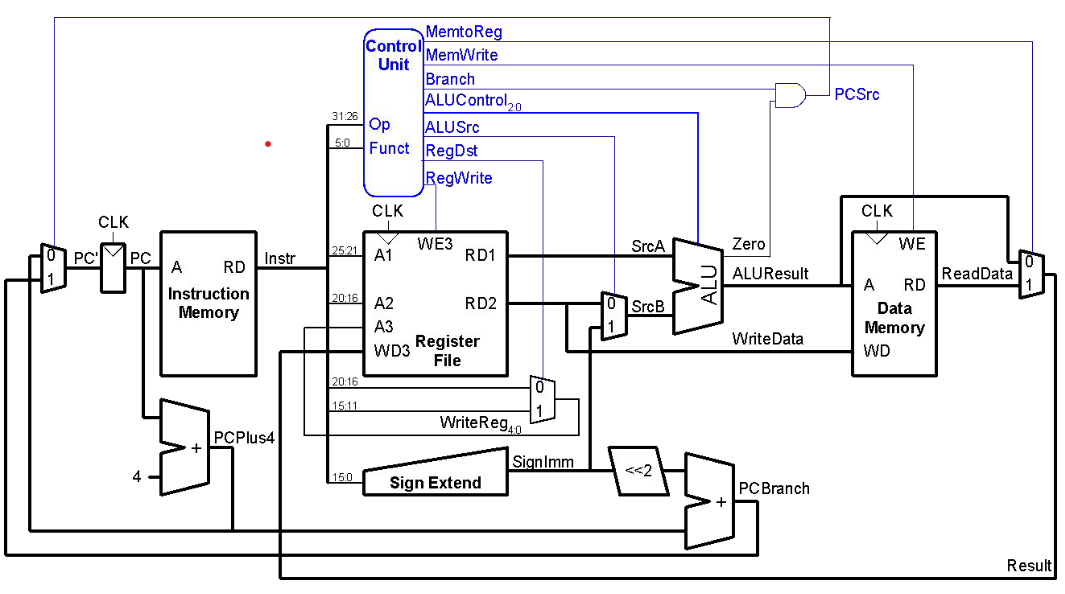
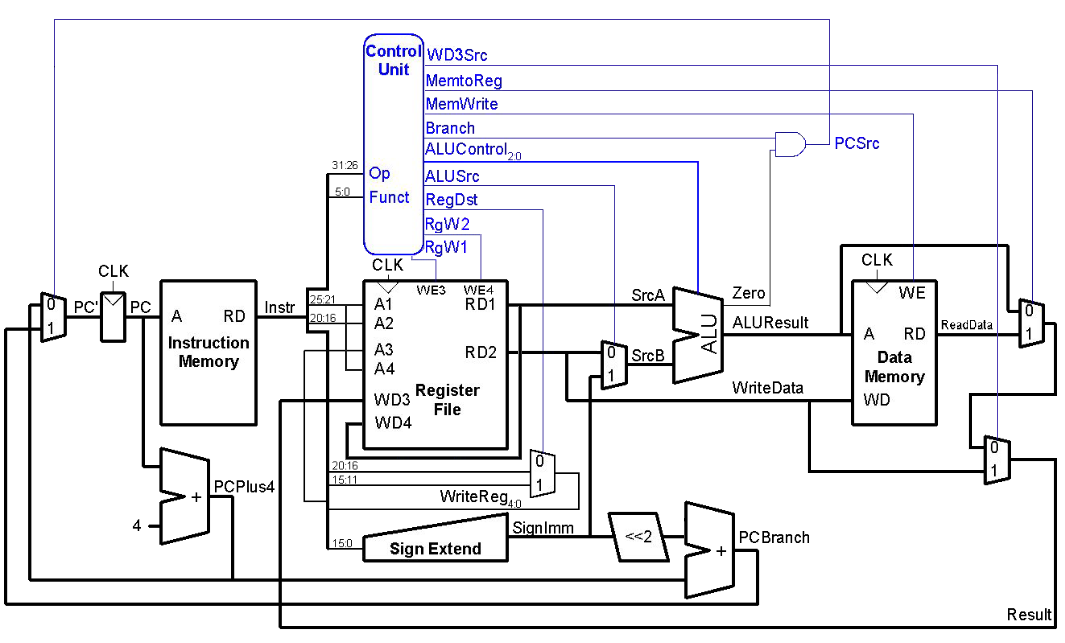
super

diff --git a/Rachunek Prawdopodobnieństwa i Statystyka/Lista 8/zad9.py b/Rachunek Prawdopodobnieństwa i Statystyka/Lista 8/zad9.py
@@ -1,0 +1,5 @@
+with open('z89.csv', 'r') as f:
+    data = [float(line.strip()) for line in f.readlines()]
+
+avg = sum(data) / len(data)
+print((sum((avg - x) ** 2 for x in data) / len(data)) ** 0.5)

diff --git a/Rachunek Prawdopodobnieństwa i Statystyka/Lista 8/zad8.py b/Rachunek Prawdopodobnieństwa i Statystyka/Lista 8/zad8.py
@@ -1,0 +1,4 @@
+with open('z89.csv', 'r') as f:
+    data = [float(line.strip()) for line in f.readlines()]
+
+print(sum(data) / len(data))

diff --git a/Systemy Komputerowe/lista6/zad9.md b/Systemy Komputerowe/lista6/zad9.md
@@ -1,14 +1,37 @@
-Jeżeli chcielibyśmy wykonać instrukcję $swap x y$ w jednym cyklu procesora to musielibyśmy wykonać następujące działania:
+*rysunek został zmodyfikowany ręcznie w programie graficznym, nie jest to rysunek ze slajdów*
+
+#### Intuicja
+
+Jeżeli chcielibyśmy wykonać instrukcję $swap \; x \; y$ w jednym cyklu procesora to musielibyśmy wykonać następujące działania:
 
 - odczytanie wartości z rejestru $x$
 - odczytanie wartości z rejestru $y$
 - zapisanie wartości z rejestru $x$ do $y$
 - zapisanie wartości z rejestru $y$ do $x$
 
+#### Problemy
+
 W dotychczasowo omawianym modelu procesora **plik rejestrów** umożliwia odczytanie dwóch wartości w jednym cyklu, natomiast możemy wykonać zapis tylko do jednego rejestru.
 
 Stąd modyfikacja jaką należałoby wykonać obejmowałaby **plik rejestrów** i dodanie wejść A4, WD4, WE4.
 
-Dodatkowo nie musielibyśmy wykonywać żadnych operacji w ALU ani w pamięci danych, więc można połączyć wyjścia RD1 i RD2 odpowiednio z wejściami WD3, WD4. Na wejścia WE3 oraz WE4 trzeba skierować w **ControlUnit** wartość 1.
+#### Modyfikacje procesora
 
-Całość powinna zachowywać kompatybilność wsteczną z innymi instrukcjami, więc dla wyjść RD1 i RD2 należałoby podłączyć stosowne multipleksery.
+- dodanie wejścia **A4**
+- dodanie wejście **WD4** oraz **WE4**
+- połączenie **A1** bezpośrednio z **A4** (**A4** jest używane tylko do ***SWAPA***)
+- połączenie **RD1** bezpośrednio z **WD4** (**WD4** jest używane tylko do ***SWAPA***)
+- dodanie multipleksera z wejścia z **RD2** oraz z wyjściem z wynikiem obliczeń dla **RD3**, który będzie wybierał wejście do **RD3** (dzięki temu zachowujemy kompatybilność z pozostałymi instrukcjami)
+
+#### Ustawienia Control Unit
+
+- ustawiamy **RegDst** na $0$, wtedy do **A3** trafi wartość z **A2**
+- ustawiamy **WD3Src** na $1$, wetdy do **WD3** trafi wartość z **RD2**
+- ustawiamy **WE4** na $1$, wtedy wartość z **WD4** zostanie zapisana do rejestru o adresie **A4**
+
+#### Koszt
+
+- $3$ dodatkowe wejśćia w **pliku rejestrów**
+- $2$ dodatkowe wyjścia z **ControlUnit**
+- $1$ dodatkowy multiplekser
+- trochę dodatkowych ścieżek (mogą powodować problemy z rozmieszczeniem elementów i ostatecznie zwiększyć rozmiar procesora)

diff --git a/Systemy Komputerowe/lista8/zad6.md b/Systemy Komputerowe/lista8/zad6.md
@@ -1,0 +1,40 @@
+#### Intuicja
+
+Algorytm Tomasulo działa podobnie do reorder buffer, ale zachowuje osobne buforowanie dla każdej jednostki ALU.
+
+#### Register Renaming
+
+Register Renaming rozwiązuje hazardy danych poprzez przypisywanie rejestrom Tagów, w celu ich dodatkowego rozróżnienia względem kolejności występowania w programie.
+
+#### Struktury danych
+
+Algorytm ma główną rejestr, który opisuje adresy stacji rezerwacyjnych. Stacje rezerwacyjne są osobne dla każdego ALU i pamiętają kolejne instrukcje, które ALU ma wykonać
+
+Stacje rezerwacyjne:
+
+- **Value**: wartość
+- **Valid**: mówi czy dane są aktualne
+- **Tag**: mówi skąd wziąć wartość
+
+Rejestr główny:
+
+- **Value**: wartość
+- **Valid**: mówi, czy wartość jest aktualna
+- **Tag**: jeżeli Valid jest równy 0 to mówi, która operacja liczy wartość
+
+#### Algorytm
+
+1. odczytanie instrukcji
+2. nadanie wolnego pierwszego wolnego miejsca w rejestrze głównym (przypisanie do odpowiedniej stacji rezerwacyjnej)
+3. jeżeli argumenty są VALID w rejestrze głównym to wykonujemy instrukcje, jeżeli nie to przepisujemy dane z rejestru głównego do stacji rezerwacyjnej
+4. wykonywane są instrukcje, które są Valid oraz aktulizowane wartości Valid dla pozostałych instrukcji
+
+#### Rozwiązania hazardów
+
+**RAW**: zapisujemy instrukcje w kolejności programu
+**WAR**: nadawanie tagów
+**WAW**: tagi są kodowane zgodnie z kolejnością programu
+
+#### Porównanie z Reorder Buffer
+
+Algorytm jest szybszy, ponieważ pozwala na równoległe buforowanie wielu jenostek ALU, co powoduje eliminacje sytuacji w których buforowane instrukcje czekają niepotrzebnie.

diff --git a/Systemy Komputerowe/lista8/zad1.md b/Systemy Komputerowe/lista8/zad1.md
@@ -1,0 +1,65 @@
+#### Definicje hazardów
+
+- **sterowania**: złe przewidywanie skoku w programie
+- **strukturalny**: jednoczesne dostęp do pamięci dwóch instrukcji
+- **RAW**: _read after write_ instrukcja odczytuje niezaktualizowany rejestr
+- **WAR**: _write after read_
+- **WAW**: _write after write_
+
+#### Procesor jednocyklowy
+
+W procesorze jednocyklowym nie występują hazardy, ponieważ żadne instrukcje nie są wykonywane równolegle.
+
+#### Procesor potokowy z jednym ALU
+
+W procesorze potokowym z pojedyńczym ALU występują hazardy:
+
+**sterowania**
+
+```
+loop: ...
+if t0 == t1 goto loop <- nie wiadomo jaki będzie wynik
+... <- czyli nie wiadomo czy wykonywac ta instrukcje
+```
+
+**strukturalne** _jeżeli mamy współdzieloną pamięć_
+
+```
+*(t0 + 5) = 15
+...
+...
+... <- podczas fetch wystąpi hazard
+```
+
+**RAW**
+
+```
+t0 = t1 + t2
+t3 = t0 + t1 <- t0 nie zostanie jeszcze zaktualizowana
+```
+
+**WAR**
+Nie wystepuje, ponieważ mając pojedyńcze ALU odczytywanie wartości nie może zostać opóźnione do fazy Writeback kolejnych instukcji.
+
+**WAW**
+Nie wystepuje, ponieważ fazy Writeback nie mogą wystąpić równolegle.
+
+#### Procesor potokowy z wieloma ALU
+
+**sterowania, strukturalne, RAW**
+
+Tak jak w procesorze z pojedyńczym ALU.
+
+**WAR**
+
+```
+t1 = t2 + t0
+t0 = t3 + t4 <- może zostać zmieniona wartość zanim poprzednia instrukcja odczyta t0
+```
+
+**WAW**
+
+```
+t0 = t1 + t2 <- zapis może wykonać po zapisie z następnej instrukcji
+t0 = t3 + t4
+```

diff --git a/Systemy Komputerowe/lista8/zad3.md b/Systemy Komputerowe/lista8/zad3.md
@@ -1,0 +1,22 @@
+#### Intuicja
+
+Algorytm opiera się na buforowaniu instrukcji, w celu zachowania ich oryginalnej kolejnośći.
+
+#### Algorytm
+
+1. Pobieranie instrukcji
+2. Dodanie instrukcji na kolejkę
+3. Równoległe obliczanie instrukcji, jeżeli jej zasoby są dostępne, ale bez zapisywania
+4. Jeżeli najstarsza instrukcja została obliczona to zapisujemy ją i usuwamy z kolejki
+
+#### Rozwiązania hazardów
+
+**RAW**: zapisujemy instrukcje w oryginalnej kolejności
+**WAR**: instrukcje mają sprawdzaną dostępność zasobów przed rozpoczęciem obliczania
+**WAW**: zapisujemy instrukcje w oryginalnej kolejności
+
+#### Porwónanie ze Scoreboardem
+
+Reorder buffer wykonuje dużo operacji na buforze, do sprawdzania dostępnośći zasobów. Natomiast Scoreboard sprawdza wykorzystanie zasobów procesora i blokuje instrukcje, które wykorzystują zajęte rejestry.
+
+Reorder buffer zapewnia precyzyjną obsułgę wyjątków w przeciwieństwie do Scoreboardu.

diff --git a/Systemy Komputerowe/lista8/zad4.md b/Systemy Komputerowe/lista8/zad4.md
@@ -1,0 +1,54 @@
+#### Program
+
+```
+r3 = r1 * r2
+r5 = r4 + r3
+r6 = r4 + r1
+r7 = r8 * r9
+r4 = r3 + r7
+r10 = r5 * r6
+```
+
+#### Procesor a
+
+Liczba cykli: $23$
+
+```
+FD123456W
+ FD.....D123456W
+  FD123456W
+   FD123456W
+    FD.....D123456W
+     FD........D123456W
+```
+
+#### Procesor b
+
+Liczba cykli: $21$
+
+```
+FD123456W
+ FD.....D1234W
+  FD1234W
+   FD123456W
+    FD.....D1234W
+     FD......D123456W
+```
+
+Faza W kolejnych instrukcji nie zachowuje kolejności programu.
+
+#### Procesor c
+
+Liczba cykli: $20$
+
+```
+FD123456RW
+ FD.....1234RW <- obliczamy szybciej w buforze
+  FD1234R     W <- obliczamy szybciej w buforze, ale zapisujemy później
+   FD123456R   W
+    FD.....1234RW
+     FD.....123456RW
+```
+
+Faza W kolejnych instrukcji zachowuje kolejność programu.
+Jest trochę szybciej bo pomijamy czekanie na zapis do rejestru, ale kosztem operacji na buforze.

diff --git a/Systemy Komputerowe/lista8/zad2.md b/Systemy Komputerowe/lista8/zad2.md
@@ -1,0 +1,16 @@
+#### Intuicja
+
+Algorytm wykorzystuje buforowanie instrukcji oraz weryfikacje zbuforowanych instrukcji, w celu manipulacji czasem ich wykonania, co pozwala na uniknięcie hazardów danych.
+
+#### Algorytm
+
+1. **issue**: pobranie instrukcji oraz sprawdzanie, czy poprzednie instrukcje nie zapisują danych do tego samego rejestru
+2. **read operands**: sprawdzanie, czy nowa instrukcja nie korzysta z wcześniej wykorzystywanych rejestrów
+3. **execution**: wykonanie instrukcji
+4. **write result**: zapis danych jeżeli wszystkie poprzedzające instrukcje, korzystające z tych samym rejestrów zostały już wykonane
+
+#### Rozwiązanie hazardów
+
+- **WAW**: w fazie **issue**
+- **RAW**: w fazie **read operands**
+- **WAR**: w fazie **write result**

diff --git a/Systemy Komputerowe/lista8/zad5.md b/Systemy Komputerowe/lista8/zad5.md
@@ -1,0 +1,49 @@
+#### Program
+
+```
+r3 = r1 * r2
+r5 = r4 + r3
+r7 = r2 + r6
+r10 = r8 + r9
+r11 = r7 * r10
+r5 = r5 + r11
+```
+
+#### Procesor a
+
+Liczba cykli: $22$
+
+```
+FD123456W
+ FD.....D123456W
+  FD123456W
+   DF123456W
+    FD.....D123456W
+     FD...........D123456W
+```
+
+#### Procesor b
+
+Liczba cykli: $30$
+
+```
+FD123456W
+ FD.....D1234W
+  FD1234W
+   FD........1234W
+    FD...........D123456W
+     FD.................D1234W
+```
+
+#### Procesor c
+
+Liczba cykli: $28$
+
+```
+FD123456RW
+ FD.....1234RW
+  FD1234R     W
+   FD.......1234RW
+    FD..........123456RW
+     FD...............1234RW
+```
